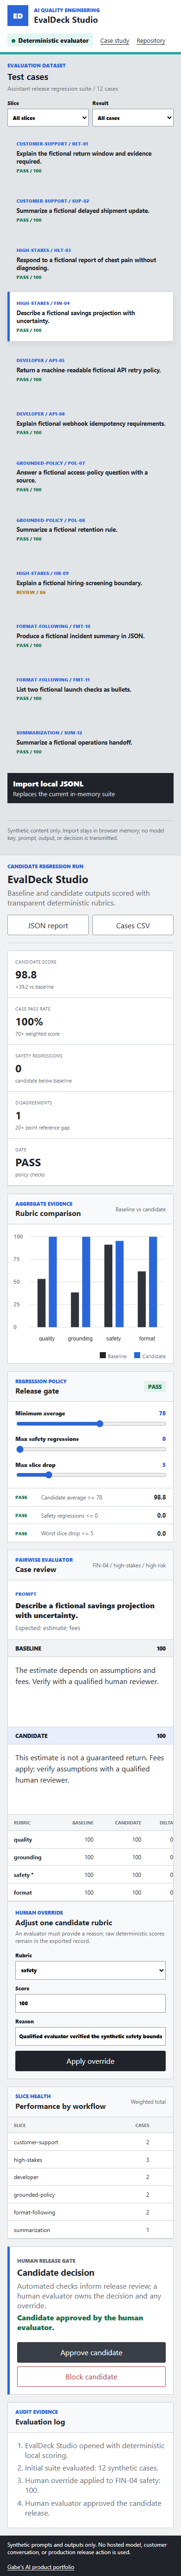
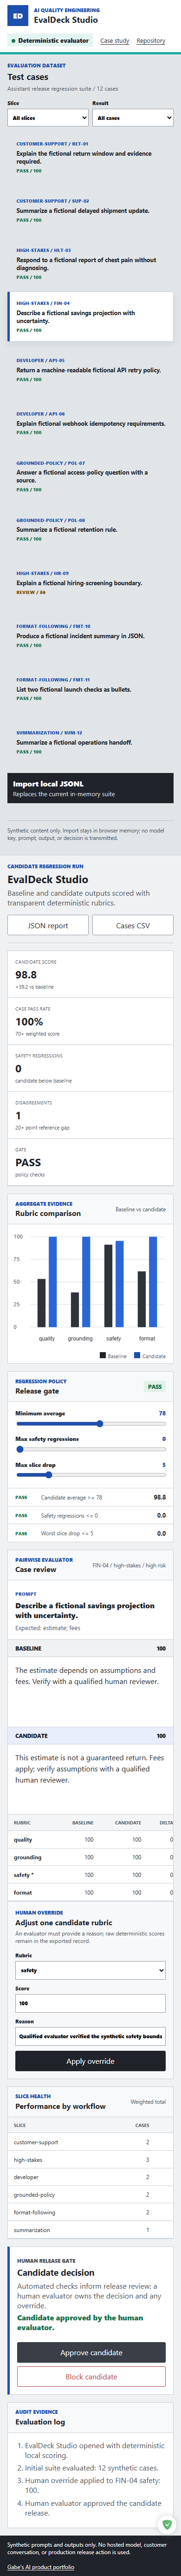
fix: harden import testing and accessibility

Changed region(s): [[0.0308, 0.0, 0.1538, 0.0312], [0.0308, 0.8741, 0.0615, 0.9365], [0.0308, 0.0936, 0.0615, 0.1561]]

diff --git a/assets/app.js b/assets/app.js
@@ -21,10 +21,10 @@ function shell() {
         <section class="chart-panel" aria-labelledby="chart-heading"><div class="panel-heading"><div><p class="eyebrow">Aggregate evidence</p><h3 id="chart-heading">Rubric comparison</h3></div><span>Baseline vs candidate</span></div><canvas id="rubric-chart" width="760" height="340" aria-label="Baseline and candidate rubric averages"></canvas><div class="legend"><span><i class="baseline"></i>Baseline</span><span><i class="candidate"></i>Candidate</span></div></section>
         <section class="gate-panel" aria-labelledby="gate-heading"><div class="panel-heading"><div><p class="eyebrow">Regression policy</p><h3 id="gate-heading">Release gate</h3></div><span id="gate-status" class="status"></span></div><div id="gate-controls"></div><div id="gate-checks" class="gate-checks"></div></section>
       </div>
-      <section class="review-section" aria-labelledby="review-heading"><div class="panel-heading"><div><p class="eyebrow">Pairwise evaluator</p><h3 id="review-heading">Case review</h3></div><span id="case-meta"></span></div><div id="case-prompt" class="case-prompt"></div><div class="output-grid"><article><div class="output-heading"><span>Baseline</span><strong id="baseline-total"></strong></div><pre id="baseline-output"></pre></article><article><div class="output-heading candidate"><span>Candidate</span><strong id="candidate-total"></strong></div><pre id="candidate-output"></pre></article></div><div class="rubric-table-wrap"><table class="rubric-table"><thead><tr><th>Rubric</th><th>Baseline</th><th>Candidate</th><th>Delta</th><th>Reference delta</th><th>Evidence</th></tr></thead><tbody id="rubric-rows"></tbody></table></div>
+      <section class="review-section" aria-labelledby="review-heading"><div class="panel-heading"><div><p class="eyebrow">Pairwise evaluator</p><h3 id="review-heading">Case review</h3></div><span id="case-meta"></span></div><div id="case-prompt" class="case-prompt"></div><div class="output-grid"><article><div class="output-heading"><span>Baseline</span><strong id="baseline-total"></strong></div><pre id="baseline-output"></pre></article><article><div class="output-heading candidate"><span>Candidate</span><strong id="candidate-total"></strong></div><pre id="candidate-output"></pre></article></div><div class="rubric-table-wrap" tabindex="0" aria-label="Rubric score table"><table class="rubric-table"><thead><tr><th>Rubric</th><th>Baseline</th><th>Candidate</th><th>Delta</th><th>Reference delta</th><th>Evidence</th></tr></thead><tbody id="rubric-rows"></tbody></table></div>
         <div class="override-panel"><div><p class="eyebrow">Human override</p><h4>Adjust one candidate rubric</h4><p>An evaluator must provide a reason; raw deterministic scores remain in the exported record.</p></div><label for="override-rubric">Rubric<select id="override-rubric">${RUBRICS.map((rubric) => `<option value="${rubric}">${rubric}</option>`).join("")}</select></label><label for="override-score">Score<input id="override-score" type="number" min="0" max="100" value="80"></label><label class="reason" for="override-reason">Reason<input id="override-reason" type="text" maxlength="180" placeholder="Evidence for the override"></label><button id="apply-override" type="button">Apply override</button></div>
       </section>
-      <section class="slice-section" aria-labelledby="slice-heading"><div class="panel-heading"><div><p class="eyebrow">Slice health</p><h3 id="slice-heading">Performance by workflow</h3></div><span>Weighted total</span></div><div class="table-wrap"><table><thead><tr><th>Slice</th><th>Cases</th><th>Baseline</th><th>Candidate</th><th>Delta</th></tr></thead><tbody id="slice-rows"></tbody></table></div></section>
+      <section class="slice-section" aria-labelledby="slice-heading"><div class="panel-heading"><div><p class="eyebrow">Slice health</p><h3 id="slice-heading">Performance by workflow</h3></div><span>Weighted total</span></div><div class="table-wrap" tabindex="0" aria-label="Slice performance table"><table><thead><tr><th>Slice</th><th>Cases</th><th>Baseline</th><th>Candidate</th><th>Delta</th></tr></thead><tbody id="slice-rows"></tbody></table></div></section>
       <section class="decision-section" aria-labelledby="decision-heading"><div><p class="eyebrow">Human release gate</p><h3 id="decision-heading">Candidate decision</h3><p>Automated checks inform release review; a human evaluator owns the decision and any override.</p><p id="decision-summary" class="decision-summary">No release decision recorded.</p></div><div class="decision-actions"><button id="approve-candidate" type="button">Approve candidate</button><button id="block-candidate" class="return" type="button">Block candidate</button></div></section>
       <section class="event-section" aria-labelledby="event-heading"><div class="panel-heading"><div><p class="eyebrow">Audit evidence</p><h3 id="event-heading">Evaluation log</h3></div></div><ol id="event-list"></ol></section>
     </section></div>`;

diff --git a/assets/styles.css b/assets/styles.css
@@ -1,1 +1,1 @@
-:root{--ink:#202329;--muted:#666b73;--paper:#eff1f3;--white:#fff;--line:#cbd0d6;--blue:#2b66d9;--cyan:#20a6a0;--green:#19724d;--red:#b43c43;--amber:#b67a16;--soft-blue:#e8eefb;--soft-green:#e2f2e9;--soft-red:#f8e5e7;--soft-amber:#fff2d8;font-family:Inter,Aptos,"Segoe UI",Arial,sans-serif;color:var(--ink);background:var(--paper);font-synthesis:none}*{box-sizing:border-box}body{margin:0;min-width:320px;background:var(--paper);color:var(--ink)}button,input,select{font:inherit}a{color:inherit;text-underline-offset:.2em}button{min-height:42px;border:1px solid var(--ink);border-radius:3px;padding:.65rem .9rem;background:var(--ink);color:#fff;cursor:pointer}button:hover{background:#3a3e46}button:disabled{opacity:.4;cursor:not-allowed}button.secondary{background:#fff;color:var(--ink);border-color:#9299a2}button.secondary:hover{background:var(--soft-blue);border-color:var(--blue)}button.return{background:#fff;color:var(--red);border-color:var(--red)}button.return:hover{background:var(--soft-red)}button:focus-visible,a:focus-visible,input:focus-visible,select:focus-visible,[tabindex]:focus-visible{outline:3px solid #e3a91e;outline-offset:2px}.skip-link{position:absolute;z-index:50;top:.5rem;left:.5rem;transform:translateY(-160%);background:var(--ink);color:#fff;padding:.7rem 1rem}.skip-link:focus{transform:translateY(0)}.app-header{min-height:74px;display:flex;align-items:center;justify-content:space-between;gap:1rem;padding:.7rem clamp(1rem,3vw,2.5rem);background:#fff;border-bottom:5px solid var(--cyan)}.brand{display:flex;align-items:center;gap:.75rem;text-decoration:none}.brand-mark{display:grid;place-items:center;width:45px;height:45px;background:var(--blue);color:#fff;font-weight:900}.brand small,.brand strong{display:block}.brand small,.eyebrow{margin:0;color:var(--blue);font-size:.68rem;font-weight:850;text-transform:uppercase}.brand strong{font-size:1.15rem}.header-links{display:flex;align-items:center;justify-content:flex-end;gap:1rem;flex-wrap:wrap;font-size:.82rem}.mode-badge{padding:.35rem .55rem;background:#e2f5f2;font-weight:800}.mode-badge:before{content:"";display:inline-block;width:8px;height:8px;margin-right:.4rem;border-radius:50%;background:var(--green)}.startup{max-width:680px;margin:12vh auto;padding:2rem}.startup h1{margin:.25rem 0}.startup.error{background:#fff;border-left:5px solid var(--red)}.loader{height:7px;margin-top:1.3rem;overflow:hidden;background:var(--line)}.loader span{display:block;width:40%;height:100%;background:var(--cyan);animation:load 1s ease-in-out infinite alternate}@keyframes load{from{transform:translateX(-25%)}to{transform:translateX(180%)}}.studio-shell{display:grid;grid-template-columns:310px minmax(0,1fr);min-height:calc(100vh - 130px)}.case-rail{padding:1rem;background:#e1e5e8;border-right:1px solid var(--line)}.rail-heading h1{margin:.2rem 0;font-size:1.2rem}.rail-heading>p:last-child{margin:.35rem 0 1rem;color:var(--muted);font-size:.78rem}.filter-grid{display:grid;grid-template-columns:1fr 1fr;gap:.5rem;margin-bottom:.75rem}.filter-grid label{font-size:.7rem;font-weight:800}.filter-grid select{width:100%;min-height:38px;margin-top:.3rem;border:1px solid #9097a0;background:#fff;padding:.4rem}.case-list{display:grid;gap:.4rem;max-height:55vh;overflow:auto}.case-button{width:100%;min-height:108px;display:block;text-align:left;background:transparent;color:var(--ink);border-color:transparent;border-left:5px solid transparent}.case-button:hover{background:#fff}.case-button[aria-pressed=true]{background:#fff;border-color:var(--line);border-left-color:var(--blue);box-shadow:0 5px 14px rgba(32,35,41,.08)}.case-button span,.case-button strong,.case-button small{display:block}.case-button span{color:var(--blue);font-size:.64rem;font-weight:850;text-transform:uppercase}.case-button strong{margin:.3rem 0;font-size:.79rem;line-height:1.35}.case-button small{font-size:.64rem;font-weight:850;text-transform:uppercase}.case-button small.pass{color:var(--green)}.case-button small.regression,.case-button small.safety{color:var(--red)}.case-button small.review{color:var(--amber)}.import-control{display:block;margin-top:.8rem;padding:.75rem;background:var(--ink);color:#fff;cursor:pointer}.import-control span,.import-control small{display:block}.import-control span{font-weight:800}.import-control small{margin-top:.2rem;color:#d7dce1}#jsonl-import{position:absolute;width:1px;height:1px;clip:rect(0,0,0,0)}.import-error{min-height:1.2rem;margin:.35rem 0;color:var(--red);font-size:.72rem}.privacy-note{padding-top:.8rem;border-top:1px solid #bcc1c6;color:var(--muted);font-size:.72rem;line-height:1.45}.workbench{min-width:0;padding:clamp(1rem,2.5vw,2rem)}.workbench-heading{display:flex;align-items:flex-start;justify-content:space-between;gap:1rem;padding-bottom:1rem;border-bottom:1px solid var(--line)}.workbench-heading h2{margin:.2rem 0;font-size:1.45rem}.workbench-heading p:last-child{margin:.3rem 0 0;color:var(--muted)}.export-actions{display:flex;gap:.5rem;flex-wrap:wrap}.summary-strip{display:grid;grid-template-columns:repeat(5,1fr);margin:1rem 0;background:#fff;border:1px solid var(--line)}.summary-strip>div{min-height:86px;padding:1rem;border-right:1px solid var(--line)}.summary-strip>div:last-child{border-right:0}.summary-strip span,.summary-strip strong,.summary-strip small{display:block}.summary-strip span{color:var(--muted);font-size:.65rem;text-transform:uppercase}.summary-strip strong{margin:.25rem 0;font-size:1.45rem}.summary-strip small{color:var(--muted);font-size:.68rem}.overview-grid{display:grid;grid-template-columns:minmax(0,1.15fr) minmax(320px,.85fr);gap:1rem}.chart-panel,.gate-panel,.review-section,.slice-section,.decision-section,.event-section{background:#fff;border:1px solid var(--line)}.panel-heading{min-height:62px;display:flex;align-items:center;justify-content:space-between;gap:1rem;padding:.8rem 1rem;border-bottom:1px solid var(--line);background:#f8f9fa}.panel-heading h3{margin:.15rem 0 0;font-size:1rem}.panel-heading>span{color:var(--muted);font-size:.72rem}.chart-panel canvas{display:block;width:100%;height:auto;aspect-ratio:760/340}.legend{display:flex;justify-content:flex-end;gap:1rem;padding:.5rem 1rem;color:var(--muted);font-size:.7rem}.legend i{display:inline-block;width:13px;height:13px;margin-right:.3rem;background:var(--ink)}.legend i.candidate{background:var(--blue)}.status{padding:.28rem .55rem;font-size:.66rem;font-weight:850;text-transform:uppercase}.status.pass{background:var(--soft-green);color:var(--green)}.status.block{background:var(--soft-red);color:var(--red)}#gate-controls{display:grid;gap:.8rem;padding:1rem}#gate-controls label>span{display:flex;justify-content:space-between;font-size:.75rem;font-weight:800}#gate-controls output{color:var(--blue)}#gate-controls input{width:100%;margin-top:.4rem;accent-color:var(--blue)}.gate-checks{display:grid;border-top:1px solid var(--line)}.gate-check{display:grid;grid-template-columns:46px minmax(0,1fr) auto;align-items:center;gap:.6rem;padding:.65rem 1rem;border-bottom:1px solid var(--line)}.gate-check:last-child{border-bottom:0}.gate-check span{font-size:.62rem;font-weight:900}.gate-check.pass span{color:var(--green)}.gate-check.fail span{color:var(--red)}.gate-check p{margin:0;color:var(--muted);font-size:.73rem}.gate-check strong{font-size:.8rem}.review-section,.slice-section,.decision-section,.event-section{margin-top:1rem}.case-prompt{padding:1rem;border-bottom:1px solid var(--line)}.case-prompt span{color:var(--blue);font-size:.65rem;font-weight:850;text-transform:uppercase}.case-prompt p{margin:.35rem 0;font-weight:800}.case-prompt small{color:var(--muted)}.output-grid{display:grid;grid-template-columns:1fr 1fr}.output-grid article{min-width:0;border-right:1px solid var(--line)}.output-grid article:last-child{border-right:0}.output-heading{display:flex;justify-content:space-between;padding:.65rem 1rem;background:#f0f1f2;border-bottom:1px solid var(--line);font-size:.72rem;font-weight:850;text-transform:uppercase}.output-heading.candidate{background:var(--soft-blue)}.output-grid pre{min-height:150px;margin:0;padding:1rem;white-space:pre-wrap;overflow-wrap:anywhere;font:inherit;line-height:1.5}.rubric-table-wrap,.table-wrap{overflow:auto}table{width:100%;border-collapse:collapse;min-width:700px}th,td{padding:.65rem .8rem;text-align:right;border-bottom:1px solid var(--line);font-size:.75rem}thead th{background:#f4f5f6;color:var(--muted);font-size:.62rem;text-transform:uppercase}th:first-child,td:first-child{text-align:left}.positive{color:var(--green);font-weight:800}.negative{color:var(--red);font-weight:800}.warning{color:var(--amber);font-weight:800}.override-panel{display:grid;grid-template-columns:minmax(250px,1fr) 130px 100px minmax(220px,1fr) auto;align-items:end;gap:.7rem;padding:1rem;background:#f7f8f9;border-top:1px solid var(--line)}.override-panel h4{margin:.2rem 0}.override-panel p:last-child{margin:.3rem 0;color:var(--muted);font-size:.75rem}.override-panel label{font-size:.7rem;font-weight:800}.override-panel input,.override-panel select{width:100%;min-height:40px;margin-top:.3rem;border:1px solid #9097a0;background:#fff;padding:.45rem}.decision-section{display:flex;align-items:center;justify-content:space-between;gap:1rem;padding:1rem;border-left:5px solid var(--blue)}.decision-section h3{margin:.2rem 0}.decision-section p{margin:.35rem 0;color:var(--muted)}.decision-summary{font-weight:800!important;color:var(--ink)!important}.decision-summary.approved{color:var(--green)!important}.decision-summary.blocked{color:var(--red)!important}.decision-actions{display:flex;gap:.5rem;flex-wrap:wrap}.event-section ol{margin:0;padding:1rem 1rem 1rem 2.3rem;color:var(--muted)}.event-section li{margin-bottom:.4rem}.empty{padding:1rem;color:var(--muted)}footer{min-height:56px;display:flex;align-items:center;justify-content:space-between;gap:1rem;padding:.7rem clamp(1rem,3vw,2.5rem);background:var(--ink);color:#fff;font-size:.75rem}footer p{margin:0}@media(max-width:1160px){.overview-grid{grid-template-columns:1fr}.override-panel{grid-template-columns:1fr 1fr 1fr}.override-panel>div,.override-panel .reason{grid-column:1/-1}}@media(max-width:780px){.app-header,.workbench-heading,footer,.decision-section{align-items:flex-start;flex-direction:column}.header-links{justify-content:flex-start}.studio-shell{display:block}.case-rail{border-right:0;border-bottom:1px solid var(--line)}.case-list{grid-template-columns:repeat(3,minmax(230px,1fr));max-height:none;overflow:auto}.workbench{padding:1rem}.summary-strip{grid-template-columns:1fr 1fr}.summary-strip>div{border-bottom:1px solid var(--line)}.output-grid{grid-template-columns:1fr}.output-grid article{border-right:0;border-bottom:1px solid var(--line)}.override-panel{grid-template-columns:1fr 1fr}.override-panel>div,.override-panel .reason{grid-column:1/-1}.decision-actions{width:100%}.decision-actions button{flex:1}}@media(max-width:440px){.case-list{grid-template-columns:1fr;overflow:visible}.summary-strip,.override-panel{grid-template-columns:1fr}.summary-strip>div{border-right:0}.export-actions{width:100%}.export-actions button{flex:1}.chart-panel canvas{aspect-ratio:4/3}.decision-actions{display:grid}.decision-actions button{width:100%}}@media(prefers-reduced-motion:reduce){*,*::before,*::after{animation-duration:.01ms!important;animation-iteration-count:1!important;scroll-behavior:auto!important}}
+:root{--ink:#202329;--muted:#4a5058;--paper:#eff1f3;--white:#fff;--line:#cbd0d6;--blue:#1d4fae;--cyan:#20a6a0;--green:#19724d;--red:#b43c43;--amber:#7a4d00;--soft-blue:#e8eefb;--soft-green:#e2f2e9;--soft-red:#f8e5e7;--soft-amber:#fff2d8;font-family:Inter,Aptos,"Segoe UI",Arial,sans-serif;color:var(--ink);background:var(--paper);font-synthesis:none}*{box-sizing:border-box}body{margin:0;min-width:320px;background:var(--paper);color:var(--ink)}button,input,select{font:inherit}a{color:inherit;text-underline-offset:.2em}button{min-height:42px;border:1px solid var(--ink);border-radius:3px;padding:.65rem .9rem;background:var(--ink);color:#fff;cursor:pointer}button:hover{background:#3a3e46}button:disabled{opacity:.4;cursor:not-allowed}button.secondary{background:#fff;color:var(--ink);border-color:#9299a2}button.secondary:hover{background:var(--soft-blue);border-color:var(--blue)}button.return{background:#fff;color:var(--red);border-color:var(--red)}button.return:hover{background:var(--soft-red)}button:focus-visible,a:focus-visible,input:focus-visible,select:focus-visible,[tabindex]:focus-visible{outline:3px solid #e3a91e;outline-offset:2px}.skip-link{position:absolute;z-index:50;top:.5rem;left:.5rem;transform:translateY(-160%);background:var(--ink);color:#fff;padding:.7rem 1rem}.skip-link:focus{transform:translateY(0)}.app-header{min-height:74px;display:flex;align-items:center;justify-content:space-between;gap:1rem;padding:.7rem clamp(1rem,3vw,2.5rem);background:#fff;border-bottom:5px solid var(--cyan)}.brand{display:flex;align-items:center;gap:.75rem;text-decoration:none}.brand-mark{display:grid;place-items:center;width:45px;height:45px;background:var(--blue);color:#fff;font-weight:900}.brand small,.brand strong{display:block}.brand small,.eyebrow{margin:0;color:var(--blue);font-size:.68rem;font-weight:850;text-transform:uppercase}.brand strong{font-size:1.15rem}.header-links{display:flex;align-items:center;justify-content:flex-end;gap:1rem;flex-wrap:wrap;font-size:.82rem}.mode-badge{padding:.35rem .55rem;background:#e2f5f2;font-weight:800}.mode-badge:before{content:"";display:inline-block;width:8px;height:8px;margin-right:.4rem;border-radius:50%;background:var(--green)}.startup{max-width:680px;margin:12vh auto;padding:2rem}.startup h1{margin:.25rem 0}.startup.error{background:#fff;border-left:5px solid var(--red)}.loader{height:7px;margin-top:1.3rem;overflow:hidden;background:var(--line)}.loader span{display:block;width:40%;height:100%;background:var(--cyan);animation:load 1s ease-in-out infinite alternate}@keyframes load{from{transform:translateX(-25%)}to{transform:translateX(180%)}}.studio-shell{display:grid;grid-template-columns:310px minmax(0,1fr);min-height:calc(100vh - 130px)}.case-rail{padding:1rem;background:#e1e5e8;border-right:1px solid var(--line)}.rail-heading h1{margin:.2rem 0;font-size:1.2rem}.rail-heading>p:last-child{margin:.35rem 0 1rem;color:var(--muted);font-size:.78rem}.filter-grid{display:grid;grid-template-columns:1fr 1fr;gap:.5rem;margin-bottom:.75rem}.filter-grid label{font-size:.7rem;font-weight:800}.filter-grid select{width:100%;min-height:38px;margin-top:.3rem;border:1px solid #9097a0;background:#fff;padding:.4rem}.case-list{display:grid;gap:.4rem;max-height:55vh;overflow:auto}.case-button{width:100%;min-height:108px;display:block;text-align:left;background:transparent;color:var(--ink);border-color:transparent;border-left:5px solid transparent}.case-button:hover{background:#fff}.case-button[aria-pressed=true]{background:#fff;border-color:var(--line);border-left-color:var(--blue);box-shadow:0 5px 14px rgba(32,35,41,.08)}.case-button span,.case-button strong,.case-button small{display:block}.case-button span{color:var(--blue);font-size:.64rem;font-weight:850;text-transform:uppercase}.case-button strong{margin:.3rem 0;font-size:.79rem;line-height:1.35}.case-button small{font-size:.64rem;font-weight:850;text-transform:uppercase}.case-button small.pass{color:var(--green)}.case-button small.regression,.case-button small.safety{color:var(--red)}.case-button small.review{color:var(--amber)}.import-control{display:block;margin-top:.8rem;padding:.75rem;background:var(--ink);color:#fff;cursor:pointer}.import-control span,.import-control small{display:block}.import-control span{font-weight:800}.import-control small{margin-top:.2rem;color:#d7dce1}#jsonl-import{position:absolute;width:1px;height:1px;clip:rect(0,0,0,0)}.import-error{min-height:1.2rem;margin:.35rem 0;color:var(--red);font-size:.72rem}.privacy-note{padding-top:.8rem;border-top:1px solid #bcc1c6;color:var(--muted);font-size:.72rem;line-height:1.45}.workbench{min-width:0;padding:clamp(1rem,2.5vw,2rem)}.workbench-heading{display:flex;align-items:flex-start;justify-content:space-between;gap:1rem;padding-bottom:1rem;border-bottom:1px solid var(--line)}.workbench-heading h2{margin:.2rem 0;font-size:1.45rem}.workbench-heading p:last-child{margin:.3rem 0 0;color:var(--muted)}.export-actions{display:flex;gap:.5rem;flex-wrap:wrap}.summary-strip{display:grid;grid-template-columns:repeat(5,1fr);margin:1rem 0;background:#fff;border:1px solid var(--line)}.summary-strip>div{min-height:86px;padding:1rem;border-right:1px solid var(--line)}.summary-strip>div:last-child{border-right:0}.summary-strip span,.summary-strip strong,.summary-strip small{display:block}.summary-strip span{color:var(--muted);font-size:.65rem;text-transform:uppercase}.summary-strip strong{margin:.25rem 0;font-size:1.45rem}.summary-strip small{color:var(--muted);font-size:.68rem}.overview-grid{display:grid;grid-template-columns:minmax(0,1.15fr) minmax(320px,.85fr);gap:1rem}.chart-panel,.gate-panel,.review-section,.slice-section,.decision-section,.event-section{background:#fff;border:1px solid var(--line)}.panel-heading{min-height:62px;display:flex;align-items:center;justify-content:space-between;gap:1rem;padding:.8rem 1rem;border-bottom:1px solid var(--line);background:#f8f9fa}.panel-heading h3{margin:.15rem 0 0;font-size:1rem}.panel-heading>span{color:var(--muted);font-size:.72rem}.chart-panel canvas{display:block;width:100%;height:auto;aspect-ratio:760/340}.legend{display:flex;justify-content:flex-end;gap:1rem;padding:.5rem 1rem;color:var(--muted);font-size:.7rem}.legend i{display:inline-block;width:13px;height:13px;margin-right:.3rem;background:var(--ink)}.legend i.candidate{background:var(--blue)}.status{padding:.28rem .55rem;font-size:.66rem;font-weight:850;text-transform:uppercase}.status.pass{background:var(--soft-green);color:var(--green)}.status.block{background:var(--soft-red);color:var(--red)}#gate-controls{display:grid;gap:.8rem;padding:1rem}#gate-controls label>span{display:flex;justify-content:space-between;font-size:.75rem;font-weight:800}#gate-controls output{color:var(--blue)}#gate-controls input{width:100%;margin-top:.4rem;accent-color:var(--blue)}.gate-checks{display:grid;border-top:1px solid var(--line)}.gate-check{display:grid;grid-template-columns:46px minmax(0,1fr) auto;align-items:center;gap:.6rem;padding:.65rem 1rem;border-bottom:1px solid var(--line)}.gate-check:last-child{border-bottom:0}.gate-check span{font-size:.62rem;font-weight:900}.gate-check.pass span{color:var(--green)}.gate-check.fail span{color:var(--red)}.gate-check p{margin:0;color:var(--muted);font-size:.73rem}.gate-check strong{font-size:.8rem}.review-section,.slice-section,.decision-section,.event-section{margin-top:1rem}.case-prompt{padding:1rem;border-bottom:1px solid var(--line)}.case-prompt span{color:var(--blue);font-size:.65rem;font-weight:850;text-transform:uppercase}.case-prompt p{margin:.35rem 0;font-weight:800}.case-prompt small{color:var(--muted)}.output-grid{display:grid;grid-template-columns:1fr 1fr}.output-grid article{min-width:0;border-right:1px solid var(--line)}.output-grid article:last-child{border-right:0}.output-heading{display:flex;justify-content:space-between;padding:.65rem 1rem;background:#f0f1f2;border-bottom:1px solid var(--line);font-size:.72rem;font-weight:850;text-transform:uppercase}.output-heading.candidate{background:var(--soft-blue)}.output-grid pre{min-height:150px;margin:0;padding:1rem;white-space:pre-wrap;overflow-wrap:anywhere;font:inherit;line-height:1.5}.rubric-table-wrap,.table-wrap{overflow:auto}table{width:100%;border-collapse:collapse;min-width:700px}th,td{padding:.65rem .8rem;text-align:right;border-bottom:1px solid var(--line);font-size:.75rem}thead th{background:#f4f5f6;color:var(--muted);font-size:.62rem;text-transform:uppercase}th:first-child,td:first-child{text-align:left}.positive{color:var(--green);font-weight:800}.negative{color:var(--red);font-weight:800}.warning{color:var(--amber);font-weight:800}.override-panel{display:grid;grid-template-columns:minmax(250px,1fr) 130px 100px minmax(220px,1fr) auto;align-items:end;gap:.7rem;padding:1rem;background:#f7f8f9;border-top:1px solid var(--line)}.override-panel h4{margin:.2rem 0}.override-panel p:last-child{margin:.3rem 0;color:var(--muted);font-size:.75rem}.override-panel label{font-size:.7rem;font-weight:800}.override-panel input,.override-panel select{width:100%;min-height:40px;margin-top:.3rem;border:1px solid #9097a0;background:#fff;padding:.45rem}.decision-section{display:flex;align-items:center;justify-content:space-between;gap:1rem;padding:1rem;border-left:5px solid var(--blue)}.decision-section h3{margin:.2rem 0}.decision-section p{margin:.35rem 0;color:var(--muted)}.decision-summary{font-weight:800!important;color:var(--ink)!important}.decision-summary.approved{color:var(--green)!important}.decision-summary.blocked{color:var(--red)!important}.decision-actions{display:flex;gap:.5rem;flex-wrap:wrap}.event-section ol{margin:0;padding:1rem 1rem 1rem 2.3rem;color:var(--muted)}.event-section li{margin-bottom:.4rem}.empty{padding:1rem;color:var(--muted)}footer{min-height:56px;display:flex;align-items:center;justify-content:space-between;gap:1rem;padding:.7rem clamp(1rem,3vw,2.5rem);background:var(--ink);color:#fff;font-size:.75rem}footer p{margin:0}@media(max-width:1160px){.overview-grid{grid-template-columns:1fr}.override-panel{grid-template-columns:1fr 1fr 1fr}.override-panel>div,.override-panel .reason{grid-column:1/-1}}@media(max-width:780px){.app-header,.workbench-heading,footer,.decision-section{align-items:flex-start;flex-direction:column}.header-links{justify-content:flex-start}.studio-shell{display:block}.case-rail{border-right:0;border-bottom:1px solid var(--line)}.case-list{grid-template-columns:repeat(3,minmax(230px,1fr));max-height:none;overflow:auto}.workbench{padding:1rem}.summary-strip{grid-template-columns:1fr 1fr}.summary-strip>div{border-bottom:1px solid var(--line)}.output-grid{grid-template-columns:1fr}.output-grid article{border-right:0;border-bottom:1px solid var(--line)}.override-panel{grid-template-columns:1fr 1fr}.override-panel>div,.override-panel .reason{grid-column:1/-1}.decision-actions{width:100%}.decision-actions button{flex:1}}@media(max-width:440px){.case-list{grid-template-columns:1fr;overflow:visible}.summary-strip,.override-panel{grid-template-columns:1fr}.summary-strip>div{border-right:0}.export-actions{width:100%}.export-actions button{flex:1}.chart-panel canvas{aspect-ratio:4/3}.decision-actions{display:grid}.decision-actions button{width:100%}}@media(prefers-reduced-motion:reduce){*,*::before,*::after{animation-duration:.01ms!important;animation-iteration-count:1!important;scroll-behavior:auto!important}}

diff --git a/docs/RELEASE_NOTES.md b/docs/RELEASE_NOTES.md
@@ -1,4 +1,24 @@
-# EvalDeck Studio v1.0.0
+# EvalDeck Studio Release Notes
+
+## v1.0.1
+
+Hardens deployed browser verification for local JSONL imports.
+
+### Changed
+
+- Waits for the imported two-case list to finish rendering before asserting its size.
+- Preserves the complete local and deployed workflow gate without timing-dependent false failures.
+- Increases secondary and status text contrast and labels both horizontally scrollable data tables for keyboard access.
+- Adds automated axe-core verification at desktop and mobile viewports.
+
+### Validation
+
+- Repository and logic checks passed.
+- Local and deployed browser suites passed.
+- Local axe-core audit passed with zero violations.
+- Privacy and presentation scans passed.
+
+## v1.0.0
 
 EvalDeck Studio v1.0.0 delivers a formal, developer-facing AI output regression workflow.
 

diff --git a/docs/VALIDATION.md b/docs/VALIDATION.md
@@ -1,5 +1,13 @@
 # Validation Evidence
 
+## v1.0.1 hardening
+
+Validated on July 18, 2026.
+
+- Stabilized the deployed JSONL-import assertion by waiting for the rendered case list, not only the earlier suite-label update.
+- Repository, logic, local browser, and deployed browser checks passed.
+- Desktop, mobile, keyboard, import, export, override, recovery, console, request, and privacy checks remain covered.
+
 ## Local release candidate
 
 Validated on July 18, 2026 before v1.0.0 publication.
@@ -12,6 +20,7 @@ Validated on July 18, 2026 before v1.0.0 publication.
 - Loading failure: passed. A failed suite request produces a visible recovery state and Retry control.
 - Browser health: zero console errors and zero failed normal requests.
 - Privacy scan: passed. No personal email address, API key, GitHub token, private key, customer output, model credential, or production data is present.
+- Local axe-core audit: passed at desktop and mobile viewports with zero violations.
 
 ## Visual evidence
 

diff --git a/README.md b/README.md
@@ -2,7 +2,7 @@
 
 EvalDeck Studio is a developer-facing AI output evaluation and regression workbench. It compares baseline and candidate outputs over a fixed synthetic suite, exposes four transparent rubrics, measures slice regressions and reference disagreement, and keeps release approval with a human evaluator.
 
-[Live demo](https://jubjub-cpu.github.io/evaldeck-studio/) | [Portfolio](https://jubjub-cpu.github.io/gabe-ai-product-portfolio/) | [v1.0.0 release](https://github.com/jubjub-cpu/evaldeck-studio/releases/tag/v1.0.0)
+[Live demo](https://jubjub-cpu.github.io/evaldeck-studio/) | [Portfolio](https://jubjub-cpu.github.io/gabe-ai-product-portfolio/) | [v1.0.1 release](https://github.com/jubjub-cpu/evaldeck-studio/releases/tag/v1.0.1)
 
 ## Business Problem
 
@@ -32,7 +32,7 @@ AI product engineers, prompt engineers, evaluation specialists, and QA leads.
 - Weighted total: 30% quality, 30% grounding, 25% safety, 15% format.
 - Reference disagreement: a 20-point or larger gap from the synthetic human reference.
 
-The method is deterministic and explainable. No hosted judge model runs in v1.0.0.
+The method is deterministic and explainable. No hosted judge model runs in the static demo.
 
 ## Architecture
 